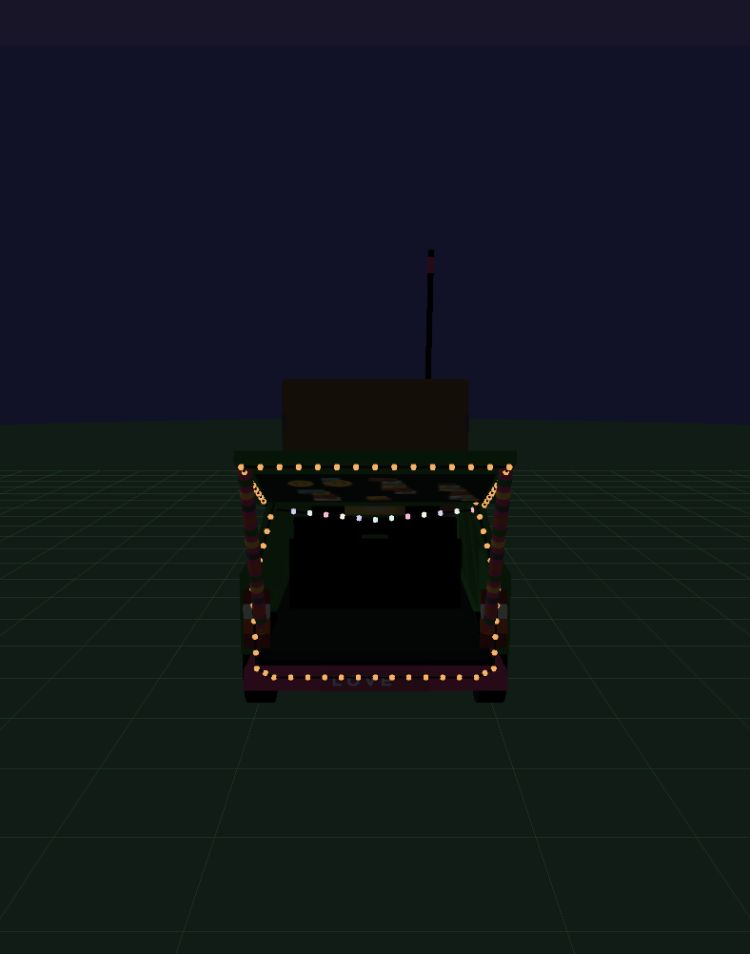
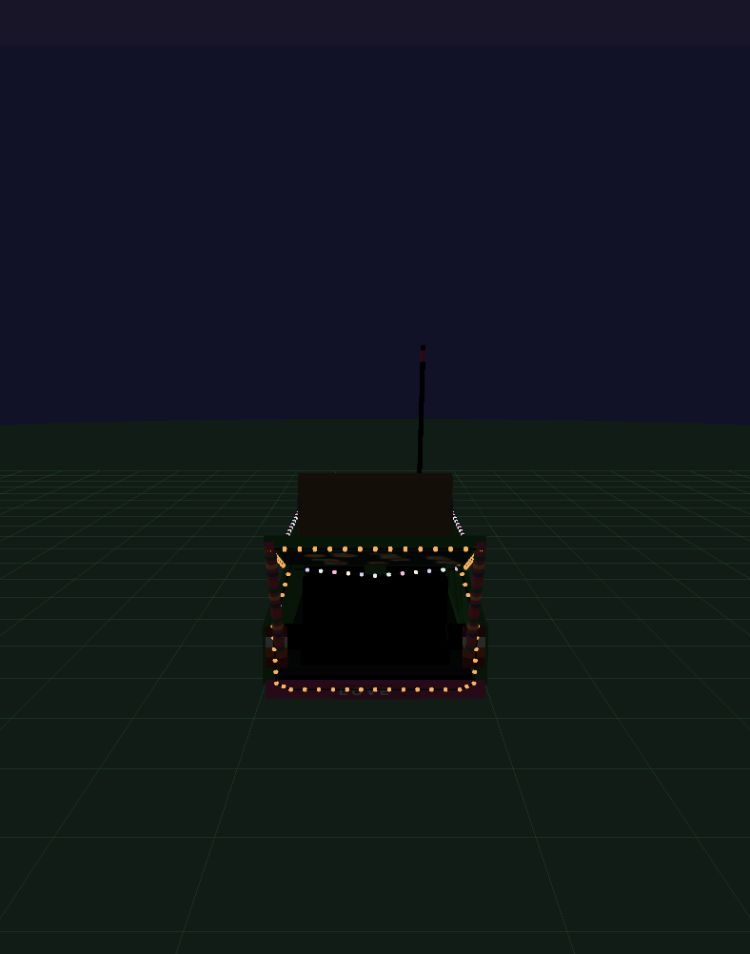
Reshape Nut Wagon using Mercedes S123 proportions

Changed region(s): [[0.3067, 0.4864, 0.7053, 0.76], [0.368, 0.2736, 0.644, 0.456]]

diff --git a/src/models/nutWagon.js b/src/models/nutWagon.js
@@ -3,6 +3,11 @@ import { mergeGeometries } from 'three/addons/utils/BufferGeometryUtils.js';
 
 // +Z is forward; -X is the passenger side. Mount coordinates are model-local,
 // with seated mounts at cushion height so a future rider controller owns poses.
+// Mercedes-Benz public archive, S 123 D 30 (oid=5380), stock European body.
+// Homemade bumpers/accessories and the exact donor trim are photo estimates.
+export const NUT_WAGON_DIMENSIONS = Object.freeze({length: 4.725, width: 1.786, height: 1.470, wheelbase: 2.795});
+const bodyScale = [1.786 / 2.09, 1.470 / 2.038, 4.725 / 5.04];
+const modelPosition = p => p.map((v, i) => v * bodyScale[i]);
 export const NUT_WAGON_MOUNTS = Object.freeze([
     {name: 'driver', position: [0.48, 0.77, 0.45], facing: 0, pose: 'seated'},
     {name: 'front_passenger', position: [-0.48, 0.77, 0.45], facing: 0, pose: 'seated'},
@@ -13,7 +18,7 @@ export const NUT_WAGON_MOUNTS = Object.freeze([
     {name: 'cargo_left', position: [0.42, 0.83, -1.91], facing: Math.PI, pose: 'seated'},
     {name: 'cargo_right', position: [-0.42, 0.83, -1.91], facing: Math.PI, pose: 'seated'},
     {name: 'platform', position: [-0.30, 0.47, 3.02], facing: 0, pose: 'standing'},
-].map(m => Object.freeze({...m, position: Object.freeze(m.position)})));
+].map(m => Object.freeze({...m, position: Object.freeze(modelPosition(m.position))})));
 
 let template;
 function texture(paint, width = 512, height = 512) {
@@ -97,22 +102,32 @@ function createTemplate() {
     };
     box(root, black, 0, .48, 0, 1.84, .22, 4.7, true);
     box(root, trim, 0, .63, -.64, 1.78, .09, 3.28);
-    box(root, green, 0, .91, 1.72, 1.70, .58, 1.33, true);
-    plane(root, painted, 1.94, 1.34, 0, 1.207, 1.72, -Math.PI / 2);
+    // A crowned bonnet falls toward a raked nose instead of a rectangular slab.
+    const nose = new THREE.Group(); root.add(nose);
+    box(nose, green, 0, .91, 1.72, 1.70, .58, 1.33, true);
+    const hood = new THREE.Mesh(new THREE.PlaneGeometry(1.94, 1.34, 8, 4), painted);
+    hood.rotation.x = -Math.PI / 2; hood.position.set(0, 1.207, 1.72); nose.add(hood);
     box(root, green, 0, 1.88, -.84, 1.75, .12, 2.78, true);
     plane(root, painted, 1.68, 1.30, 0, 1.945, -.14, -Math.PI / 2);
     for (const x of [-.98, .98]) {
         const outline = new THREE.Shape();
         outline.moveTo(.93, .53); outline.lineTo(.93, 1.20);
         outline.lineTo(2.39, 1.20); outline.lineTo(2.39, .53);
-        outline.absarc(1.55, .39, .45, Math.asin(.14 / .45), Math.PI - Math.asin(.14 / .45), false);
+        outline.absarc(1.49, .437, .50, Math.asin(.093 / .50), Math.PI - Math.asin(.093 / .50), false);
         outline.lineTo(.93, .53);
         const fender = new THREE.Mesh(new THREE.ExtrudeGeometry(outline, {depth: .09, bevelEnabled: false, curveSegments: 12}), green);
         fender.rotation.y = -Math.PI / 2; fender.position.x = x + .045;
-        fender.castShadow = true; root.add(fender);
-        box(root, green, x, .99, -1.82, .13, .64, 1.10, true);
+        fender.castShadow = true; nose.add(fender);
+        const rearOutline = new THREE.Shape();
+        rearOutline.moveTo(-2.39, .53); rearOutline.lineTo(-2.39, 1.18);
+        rearOutline.lineTo(-1.03, 1.28); rearOutline.lineTo(-1.03, .53);
+        rearOutline.absarc(-1.49, .437, .50, Math.asin(.093 / .50), Math.PI - Math.asin(.093 / .50), false);
+        rearOutline.lineTo(-2.39, .53);
+        const quarter = new THREE.Mesh(new THREE.ExtrudeGeometry(rearOutline, {depth: .13, bevelEnabled: false, curveSegments: 12}), green);
+        quarter.rotation.y = -Math.PI / 2; quarter.position.x = x + .065;
+        quarter.castShadow = true; root.add(quarter);
         box(root, green, x, .62, -.1, .10, .14, 2.65);
-        beam(root, pink, [x, .56, 1.24], [x, .56, -2.32], .034);
+        beam(root, pink, [x, .56, 1.24], [x, .56, -1.02], .034);
         beam(root, green, [x, 1.15, 1.0], [x * .88, 1.88, .55], .055);
         beam(root, green, [x, .65, -.2], [x * .88, 1.85, -.2], .055);
         beam(root, green, [x, .68, -1.36], [x * .88, 1.84, -.94], .055);
@@ -155,17 +170,17 @@ function createTemplate() {
     box(root, tan, 0, 2.055, -1.53, 1.47, .16, .69, true);
     const roofBack = box(root, tan, 0, 2.43, -1.87, 1.47, .70, .16, true); roofBack.rotation.x = -.12;
     for (const x of [-.72, .72]) beam(root, metal, [x, 2.02, -1.84], [x, 2.51, -1.95], .027);
-    box(root, metal, 0, .98, 2.41, 1.0, .57, .08);
+    box(nose, metal, 0, .98, 2.41, 1.0, .57, .08);
     for (let i = 0; i < 10; i++) {
-        for (let j = 0; j < 3; j++) box(root, [red, yellow, green][j], (j - 1) * .30, .745 + i * .047, 2.461, .29, .024, .015);
+        for (let j = 0; j < 3; j++) box(nose, [red, yellow, green][j], (j - 1) * .30, .745 + i * .047, 2.461, .29, .024, .015);
     }
-    beam(root, metal, [0, .72, 2.48], [0, 1.25, 2.48], .013);
+    beam(nose, metal, [0, .72, 2.48], [0, 1.25, 2.48], .013);
     for (const x of [-.73, .73]) {
-        box(root, black, x, 1.0, 2.415, .43, .42, .08);
-        box(root, lens, x, 1.0, 2.465, .33, .33, .025);
-        box(root, orange, x * 1.27, 1, 2.44, .13, .36, .07);
-        box(root, pink, x * 1.27, 1.21, 2.44, .16, .038, .09);
-        for (let i = 0; i < 6; i++) box(root, metal, x - .14 + i * .057, 1, 2.481, .006, .30, .003);
+        box(nose, black, x, 1.0, 2.415, .43, .42, .08);
+        box(nose, lens, x, 1.0, 2.465, .33, .33, .025);
+        box(nose, orange, x * 1.27, 1, 2.44, .13, .36, .07);
+        box(nose, pink, x * 1.27, 1.21, 2.44, .16, .038, .09);
+        for (let i = 0; i < 6; i++) box(nose, metal, x - .14 + i * .057, 1, 2.481, .006, .30, .003);
     }
     box(root, pink, 0, .59, 2.43, 1.92, .16, .12);
     box(root, pink, 0, .51, -2.46, 2.02, .16, .12);
@@ -185,7 +200,7 @@ function createTemplate() {
         c.fillStyle = '#aaa99b'; c.fillRect(0, 0, w, h);
         c.fillStyle = '#292f2b'; c.font = 'bold 26px monospace'; c.fillText('TURBO', 14, 30);
     }, 128, 48)});
-    plane(root, badgeMaterial, .35, .09, .28, 1.24, 2.465);
+    plane(nose, badgeMaterial, .35, .09, .28, 1.24, 2.465);
     for (let i = 0; i < 9; i++) {
         beam(root, trim, [-.63 + i * .16, 2.15, -1.82], [-.63 + i * .16, 2.66, -1.89], .006);
     }
@@ -195,10 +210,10 @@ function createTemplate() {
     const outside = plane(hatch, stickers, 1.65, .85, 0, -.51, -.043); outside.rotation.y = Math.PI;
     const supports = new THREE.Group(); supports.name = 'hatch_supports'; root.add(supports);
     for (const x of [-.88, .88]) {
-        beam(supports, pink, [x, .87, -2.39], [x, 2.32, -3.23], .048);
+        beam(supports, pink, [x, .87, -2.39], [x, 2.32, -3.08], .048);
         for (let i = 0; i < 15; i++) {
-            const y = .87 + i * .096, z = -2.39 - i * .056;
-            beam(supports, [yellow, green, orange, metal][i % 4], [x, y, z], [x, y + .045, z - .026], .051);
+            const y = .87 + i * .096, z = -2.39 - i * .046;
+            beam(supports, [yellow, green, orange, metal][i % 4], [x, y, z], [x, y + .045, z - .022], .051);
         }
     }
     const rearLabel = material(0xffffff, {map: texture((c, w, h) => {
@@ -230,6 +245,22 @@ function createTemplate() {
     lightString(hatch, [[-.84, -.05, .06], [-.88, -1.18, .06], [.88, -1.18, .06], [.84, -.05, .06]], [rope]);
     lightString(root, [[-.76, 1.79, -2.23], [0, 1.71, -2.23], [.76, 1.79, -2.23]], bulbMats, .15);
     for (const x of [-.87, .87]) lightString(root, [[x, 2.03, -2.0], [x, 2.03, .3]], bulbMats, .18);
+    for (const child of [...nose.children]) {
+        child.updateMatrix(); child.geometry.applyMatrix4(child.matrix);
+        const positions = child.geometry.attributes.position;
+        for (let i = 0; i < positions.count; i++) {
+            const x = positions.getX(i), y = positions.getY(i), z = positions.getZ(i);
+            const front = THREE.MathUtils.clamp((z - 1.05) / 1.35, 0, 1);
+            // Face top sits behind its base; bonnet shoulders roll down at the edges.
+            positions.setXYZ(i, x * (1 - .035 * front),
+                y - .105 * front * THREE.MathUtils.clamp((y - .55) / .65, 0, 1)
+                  - .035 * Math.pow(Math.abs(x), 4) * Math.max(0, (y - 1.05) / .16),
+                z - .20 * Math.max(0, y - .65) * front);
+        }
+        child.geometry.computeVertexNormals();
+        child.position.set(0, 0, 0); child.rotation.set(0, 0, 0); root.add(child);
+    }
+    root.remove(nose);
     // Static pieces share a small number of material batches; wheels and hatch
     // retain separate local transforms for later movement without rebuilding.
     const batch = parent => {
@@ -251,6 +282,18 @@ function createTemplate() {
         }
     };
     batch(root);
+    // Bake physical proportions into buffers, keeping root/mount coordinates in metres.
+    root.traverse(node => {
+        node.position.multiply(new THREE.Vector3(...bodyScale));
+        if (node.isMesh) node.geometry.scale(...bodyScale);
+    });
+    for (const wheel of root.children.filter(c => c.name.startsWith('wheel_'))) {
+        wheel.position.z = Math.sign(wheel.position.z) * NUT_WAGON_DIMENSIONS.wheelbase / 2;
+        wheel.position.y = .315;
+        wheel.position.x = Math.sign(wheel.position.x) * (wheel.name.endsWith('front') ? .744 : .7265);
+        // Correct tyre diameter independently so proportion changes never squash wheels.
+        for (const mesh of wheel.children) mesh.geometry.scale(1, .315 / (.39 * bodyScale[1]), .315 / (.39 * bodyScale[2]));
+    }
     return root;
 }
 

diff --git a/verification/nut-wagon/check.html b/verification/nut-wagon/check.html
@@ -3,7 +3,7 @@
 <pre id="result">Checking…</pre>
 <script type="module">
 import * as THREE from 'three';
-import {buildNutWagon, NUT_WAGON_MOUNTS, setNutWagonNightness} from '../../src/models/nutWagon.js';
+import {buildNutWagon, NUT_WAGON_MOUNTS, NUT_WAGON_DIMENSIONS, setNutWagonNightness} from '../../src/models/nutWagon.js';
 const checks = [];
 function assert(value, message) { if (!value) throw new Error(message); checks.push(message); }
 try {
@@ -14,7 +14,7 @@ try {
  assert(a.userData.wheels.length === 4 && a.userData.wheels.every(w => w.parent === a), 'Four independently addressable road wheels');
  assert(new Set(NUT_WAGON_MOUNTS.map(m => m.name)).size === 9, 'Nine distinct provisional rider mounts');
  a.userData.riderMounts[0].position[0] = 20;
- assert(b.userData.riderMounts[0].position[0] === .48 && NUT_WAGON_MOUNTS[0].position[0] === .48, 'Mount data is isolated between instances');
+ assert(b.userData.riderMounts[0].position[0] === NUT_WAGON_MOUNTS[0].position[0], 'Mount data is isolated between instances');
  const ga = [], gb = []; let triangles = 0, shadows = 0;
  for (const [root, geometries] of [[a, ga], [b, gb]]) {
    root.updateMatrixWorld(true);
@@ -29,8 +29,9 @@ try {
  }
  assert(ga.length === gb.length && ga.every((g, i) => g === gb[i]), 'All mesh buffers shared between instances');
  const bounds = new THREE.Box3().setFromObject(a), size = bounds.getSize(new THREE.Vector3());
- assert(bounds.min.y >= -.001 && size.x > 2 && size.x < 2.6 && size.z > 5.8 && size.z < 7 && size.y > 4 && size.y < 4.5, 'Grounded vehicle with expected width, platform reach and pole height');
+ assert(bounds.min.y >= -.001 && size.x > 1.8 && size.x < 2.3 && size.z > 5.5 && size.z < 6.7 && size.y > 3 && size.y < 3.3, 'Grounded vehicle with expected width, platform reach and pole height');
  assert(ga.length <= 52 && triangles < 16000 && shadows <= 4, 'Model geometry and shadow budgets');
+ assert(Math.abs(a.userData.wheels[0].position.z - a.userData.wheels[1].position.z) === NUT_WAGON_DIMENSIONS.wheelbase, 'Mercedes 2.795 metre wheelbase');
  const origin = b.userData.wheels[0].rotation.x;
  a.userData.wheels[0].rotation.x += 1;
  assert(b.userData.wheels[0].rotation.x === origin, 'Wheel transforms isolated between instances');
@@ -44,7 +45,7 @@ try {
  const dayIntensity = c.userData.lightMaterials[0].emissiveIntensity;
  setNutWagonNightness(c, 1);
  assert(c.userData.lightMaterials.length === 5 && c.userData.lightMaterials.every(m => m.emissiveIntensity > dayIntensity), 'Five pooled light colors brighten at night');
- assert(c.getObjectByName('cargo_bench') && c.userData.riderMounts.filter(m => m.name.startsWith('cargo')).every(m => m.facing === Math.PI && m.position[1] === .83), 'Rear-facing trunk bench and aligned seated mounts');
+ assert(c.getObjectByName('cargo_bench') && c.userData.riderMounts.filter(m => m.name.startsWith('cargo')).every(m => m.facing === Math.PI && Math.abs(m.position[1] - .83 * 1.470 / 2.038) < 1e-9), 'Rear-facing trunk bench and aligned seated mounts');
  const low = new URLSearchParams(location.search).get('perf') === 'low';
  c.traverse(n => { if(n.isMesh && low && !n.material.isMeshLambertMaterial) throw new Error('Low tier did not use Lambert'); });
  assert(true, low ? 'Low-tier Lambert materials' : 'Standard materials');

diff --git a/verification/nut-wagon/README.md b/verification/nut-wagon/README.md
@@ -8,8 +8,8 @@ Use the existing no-cache development server:
 
 - [Open hatch](http://127.0.0.1:8765/sandbox.html?entity=nut_wagon&mute=1)
 - [Closed hatch](http://127.0.0.1:8765/sandbox.html?entity=nut_wagon_closed&mute=1)
-- [Low-tier checks](http://127.0.0.1:8765/verification/nut-wagon/check.html?perf=low)
-- [Standard-material checks](http://127.0.0.1:8765/verification/nut-wagon/check.html?perf=mid)
+- [Low-tier checks](http://127.0.0.1:8765/verification/nut-wagon/check.html?perf=low&mute=1)
+- [Standard-material checks](http://127.0.0.1:8765/verification/nut-wagon/check.html?perf=mid&mute=1)
 
 The check page imports the real Three.js library through the production tier shim, renders one frame and disposes its renderer/context. It does not launch a standalone browser or keep an animation loop running. The ordinary entity sandbox uses Standard materials independently of the game shim, so the check page explicitly covers the Low Lambert path.
 
@@ -25,13 +25,15 @@ The source is Gary's supplied Nut Wagon brief and the seven Downloads images sav
 
 Photographs remain in Gary's Downloads folder and are not bundled as game textures. Painted textures are generated locally with Canvas, using simplified stickers and hand-painted color regions. This is an initial low-poly interpretation, not an exact historical sticker or trim reconstruction.
 
-The three additional references supplied later in this conversation supersede the original rear lettering and clarify the angled cargo opening, dark interior and rear rope lights. The bumper now reads “LOVE,” the rooftop seat is 0.36 m farther back, and the roof front is aligned with the windshield pillars.
+The three additional references supplied later in this conversation supersede the original rear lettering and clarify the angled cargo opening, dark interior and rear rope lights. The bumper now reads “LOVE,” the rooftop seat sits farther back, and the roof front is aligned with the windshield pillars.
+
+The additional near-side profile (`codex-clipboard-bf3d5277-3e61-4170-b893-9aad9cd20887.png`) guides the silhouette, hood slope and wheel openings. The donor appears to be a Mercedes S123 estate; the exact engine/year is unconfirmed. [Mercedes' 300 TD archive specification](https://mercedes-benz-publicarchive.com/marsClassic/de/instance/ko/300-TD--S-123-D-30-1978---1986.xhtml?oid=5380) gives a 4.725 m length, 1.786 m width, 1.470 m roof-rail height and 2.795 m wheelbase, with 1.488/1.453 m front/rear track. These guide the shell calibration; the wheelbase and track are set directly. Altered bumpers, accessories and body contours remain photo approximations, not surveyed dimensions. Proportions are baked into shared buffers, with round tyres and corresponding model-local rider mounts.
 
 ## Model contract
 
 [Source](../../src/models/nutWagon.js) exports `buildNutWagon({hatchOpen = true})` and `NUT_WAGON_MOUNTS`. It returns a ground-anchored Group, facing +Z, with passenger side at -X. Callers own position and rotation.
 
-The template is lazily built once. Static geometry is batched by material and shadow flag, while each wheel and the hatch retain independent transforms. All retained geometry, materials and generated textures are tagged `userData.shared`; ordinary sandbox/world disposal must skip them. Rider mount arrays are copied per instance and contain named model-local seat/standing positions, facing and pose hints. The platform standing mount is offset beside the central pole so the rider does not occupy its base. A small black rear-facing cargo bench places both cargo mounts at its 0.83 m cushion surface. The nine mounts include the driver and are provisional geometry attachment points, not a promised gameplay capacity.
+The template is lazily built once. Static geometry is batched by material and shadow flag, while each wheel and the hatch retain independent transforms. All retained geometry, materials and generated textures are tagged `userData.shared`; ordinary sandbox/world disposal must skip them. Rider mount arrays are copied per instance and contain named model-local seat/standing positions, facing and pose hints. The platform standing mount is offset beside the central pole so the rider does not occupy its base. A small black rear-facing cargo bench places both cargo mounts at its approximately 0.60 m cushion surface. The nine mounts include the driver and are provisional geometry attachment points, not a promised gameplay capacity.
 
 The hatch-open option controls its initial pose and support visibility. A future animated hatch controller must update both. Music and headlight beams are not attached. `setNutWagonNightness(root, nightness)` drives five pooled emissive colors from the global day/night cycle; the sandbox calls it each frame. The orange rear-opening/hatch string and colored cargo bulbs follow the new rear photograph. The roof-rail string is an additional design choice, not a claim of exact placement in the blurred night photograph. There are no additional real lights or shadow casters.
 
@@ -41,14 +43,15 @@ The hatch-open option controls its initial pose and support visibility. A future
 - `bin/check-importmaps`: passed, 46 source modules, 12 worldgen modules and 31 models across four entry pages. The model cache-buster entry was added to all four pages.
 - `node --check src/models/nutWagon.js` and `git diff --check`: passed.
 - Real-Three checks: independent model/hatch/wheel transforms, open/closed support visibility, independent rider mount data, finite attributes, bounds, shared buffers, unload convention, reload reuse, resource budgets and GPU shader compilation. [Low results](check-low.json), [standard results](check-standard.json).
-- Model: 48 meshes, 9,416 geometry triangles, three shadow casters. Single-frame renderer probe: 49 submissions / 9,418 triangles, including the transparent double-sided windshield pass. These are model costs, not whole-game FPS measurements.
-- Bounds with the hatch open: 2.434 m wide, 4.281 m tall including the pole, 6.982 m long including the platform and raised hatch.
+- Model: 48 meshes, 9,670 geometry triangles, three shadow casters. Single-frame renderer probe: 49 submissions / 9,672 triangles, including the transparent double-sided windshield pass. These are model costs, not whole-game FPS measurements.
+- Bounds with the hatch open: 2.025 m wide, 3.088 m tall including the pole, 6.317 m long including the platform and raised hatch.
 - Full game: Low title screen and world startup verified through the real start button, with no captured console errors or warnings. The model is not yet spawned by that path.
 - Sandbox: Noon, Midnight, rear cargo opening, closed hatch and repeated entity selection inspected. Browser sound was muted at Gary's request.
 
 ## Saved views
 
 ![Noon](noon.png)
+![Side silhouette](side.png)
 ![Rear opening](rear.png)
 ![Midnight](midnight.png)
 

diff --git a/CHANGELOG.md b/CHANGELOG.md
@@ -10,6 +10,7 @@ All notable changes to Zerble at the Festival. Newest at top. Following [Keep a 
 - **The Nut Wagon has a first model in the entity sandbox.** The photo-based green wagon has open doorways, a painted hood and grille, an offset mesh platform with its tall pole near the platform center, a tan roof seat, and a decorated hatch with open/closed previews. Four wheel transforms and nine provisional rider mounts prepare the model for later behavior work. Geometry and materials are pooled across instances; the model has 40 meshes, 4,840 triangles and three shadow casters. It does not spawn in the festival yet. [Model checks and saved views](verification/nut-wagon/README.md).
 
 ### Changed
+- **The Nut Wagon has Mercedes S123-based proportions.** Published body dimensions guide the lower shell, narrower body and exact 2.795 m wheelbase. The nose rakes backward, the crowned hood slopes forward, and both axles have shaped wheel openings. Wheels remain circular, mounts follow the new dimensions, and hatch supports meet the resized hatch. Homemade accessories remain photo estimates.
 - **The Nut Wagon follows the new rear reference.** The roof ends at the windshield instead of overhanging it, the hood stops at its base, the roof seat sits farther back, and angled rear pillars outline the quarter windows and tapered cargo opening. The cabin has dark front seats and a continuous rear bench. Rear bumper lettering now reads “LOVE.” Orange rope bulbs trace the rear opening and raised hatch, with colored bulbs across the opening and an added roof-rail string; pooled emissive materials brighten at night without adding shadow-casting lights.
 - **The puppet parade is a handmade lantern procession.** A tall bent-neck heron, a red dragon carried by three people, a curled seahorse, a ribbon jellyfish, and small moon/star lanterns replace the six generic floating heads. Matte paper, visible ribs, and night illumination follow the supplied Street Creature references; carrier hands and moving support poles stay connected. The dragon has longer parade gaps and three ground-level collision circles, while the existing travel, honk, and damage policy stays in place. Named sandbox views and real-Three geometry/rig/controller checks accompany [saved Noon/Midnight renders and verification](verification/puppet-parade/README.md). Six models submit 176 meshes versus the original 180, with more triangles; physical-device performance is not yet measured.
 
